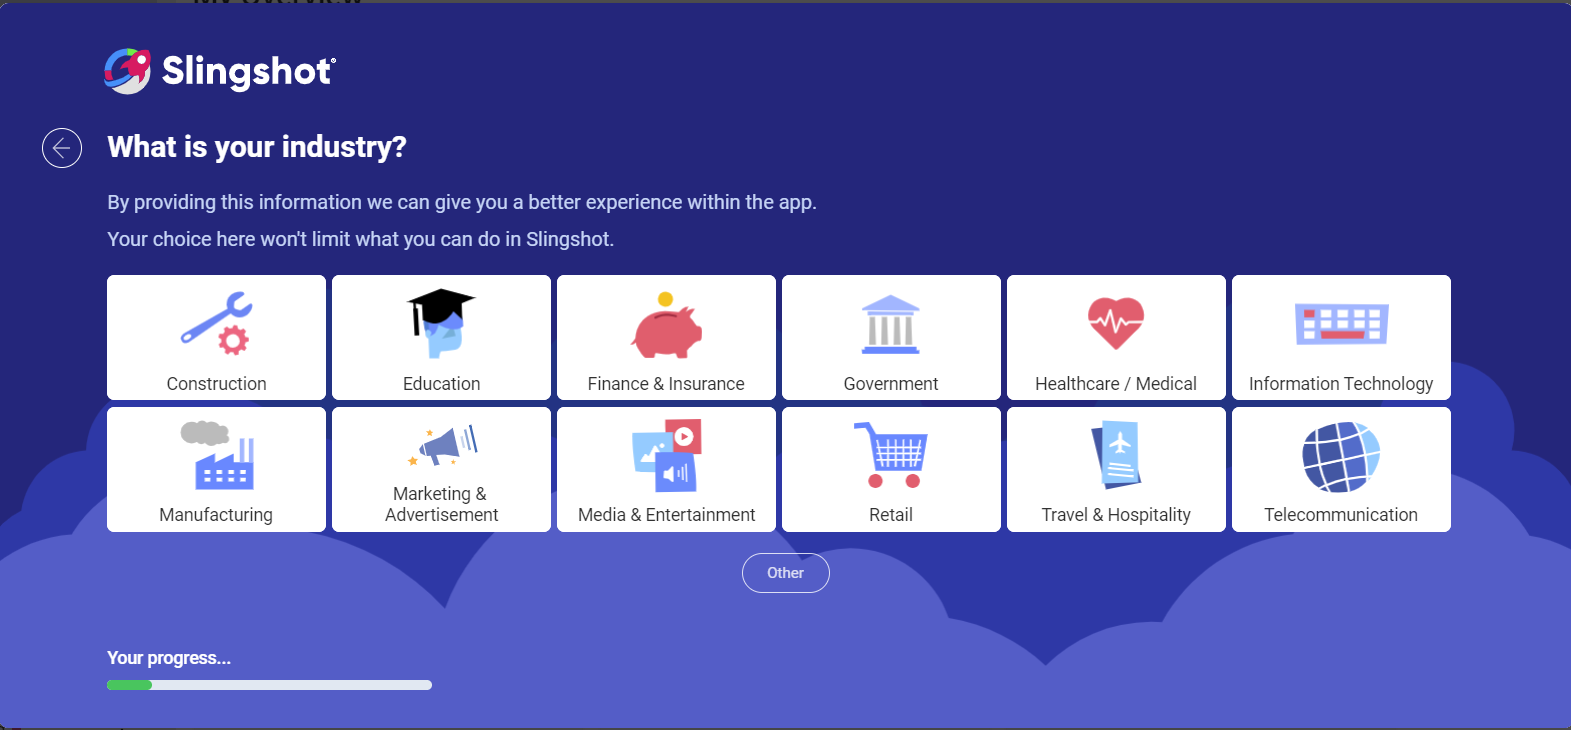
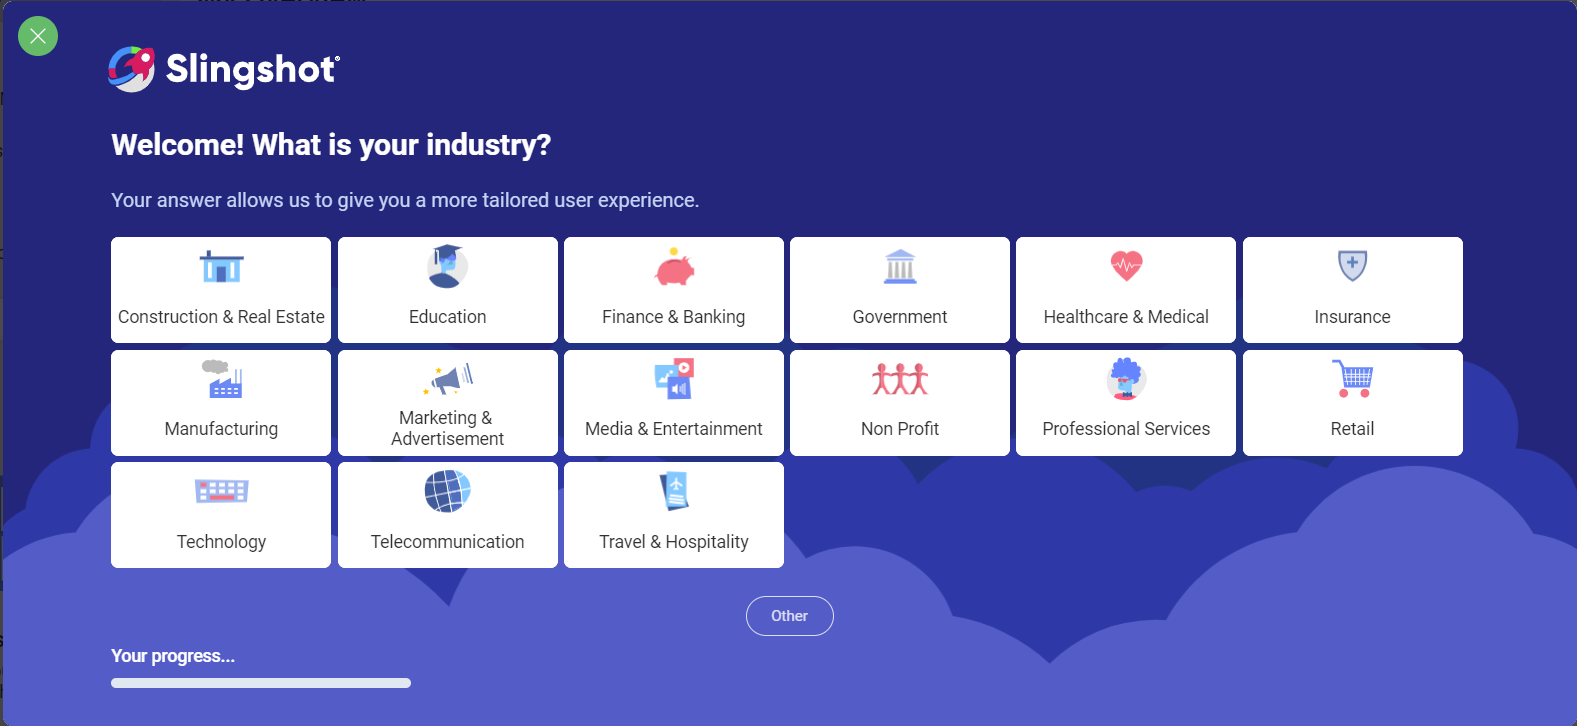
latest features

diff --git a/docfx/en/docs/tasks.md b/docfx/en/docs/tasks.md
@@ -9,10 +9,7 @@ When it comes to running a successful project – task management is at the hear
 
 There is a task tab available within your workspaces and projects, listing all the tasks assigned to everyone in those workspaces and projects. You can view your own tasks assigned to you within the **My Tasks** section.
 
-Learn more about all Slingshots project management features in our short tutorial video:  
-
-> [!Video https://www.youtube.com/embed/D1yqDISM5PM]
-
+<img src="../images/my-tasks.png" alt="My tasks assigned tasks" width="90%" class="responsive-img"/>
 
 ## What are Tasks?  
 
@@ -36,25 +33,33 @@ Subtasks can be created from inside the task card or from the parent task's over
 
 Tasks are very important for driving the productivity of your teams and projects. Your task card has the following fields:  
 
-<img src="../images/task-card-example.png" alt="Task card with all fields highlighted within Slingshot" width="80%" class="responsive-img"/>
+<img src="../images/task-fields.png" alt="Task card with all fields highlighted within Slingshot" width="80%" class="responsive-img"/>
 
-1.	**Task Title**: Set a clear title for your tasks.  
-2.	**Assignee(s)**: Assign either one person, multiple, group or workspace to a task.  
-3.	**Start Date & Due Date**: Set clear expectations on deadlines with start and due dates.  
-4.	**Status**: Set the status of the task such as In Review, In Progress or Completed.
-5.	**Attachments**: Add documents and files directly from your cloud providers or using drag and drop.  
-6.	**URLs**: Attach URLs to your tasks for reference.  
-7.	**Priority**: Set priorities for your teams so they can better manage their workloads effectively.
-8.	**Subtasks**: Create subtasks to slice your work better.
-9.	**Description**: Add further details around your tasks so the assignee(s) can understand what needs to get done.
-10.	**Activity**: Have threaded conversations around your tasks in context. 
-11.	**Task Dependencies**: Set clear paths to success for your projects with accountability to user's tasks. 
+1.	**Task Title**: Set a clear title for your tasks. 
+
+2.  **Description**: Add further details around your tasks so the assignee(s) can understand what needs to get done.
+
+3.	**Status**: Set the status of the task such as In Review, In Progress or Completed.
+
+4.	**Priority**: Set priorities for your teams so they can better manage their workloads effectively.
+
+5.	**Assignee(s)**: Assign either one person, multiple, group or workspace to a task. 
+
+6.	**Start Date & Due Date**: Set clear expectations on deadlines with start and due dates.  
+
+7.	**Attachments**: Add documents and files (for example, URLs, dashboards or data sources) to the task. 
+
+8.	**Activity**: Have threaded conversations around your tasks in context.
+
+If you want to add subtasks or dependencies to the task, you can scroll down in the task card.
+
+<img src="../images/task-fields-subtasks-dependencies.png" alt="Subtasks and dependencies in a task card" width="80%" class="responsive-img"/>
 
 ### Task Description
 
- In the task description section you can not only add additional details around your tasks, but you can also add images or create numbered and bulleted lists. For emphasis, you can also use the bold or italic font.
+ In the task description section, you can add additional details around your tasks with the help of different text formatting tools. You can also add URLs, as well as emojis.
 
-  <img src="../images/task-description-new-features.png" alt="using an image and numbered list in the task description" width="80%" class="responsive-img"/>
+  <img src="../images/task-description.png" alt="using an image and numbered list in the task description" width="65%" class="responsive-img"/>
 
 Note that currently these options are available only for macOS Monterey.
 
@@ -86,9 +91,23 @@ You can organize your tasks into lists to further group them together. Within li
 
 ## Task Views
 
-You can choose between three views (List, Kanban, Timeline) to take advantage of a different layout to maximize utility. Use the **View Settings** drop down menu (top right of the task list) to switch between views.  
+You can choose between four views (Calendar, List, Kanban, Timeline) to take advantage of a different layout to maximize utility. Use the **View Settings** drop-down menu (top right of the task list) to switch between views.  
 
-Within each of the task views you can filter, choose which task fields you want to show and group by status, priority, assignee, or sections.  
+Within each of the task views you can filter the tasks in a way that best suits your teams' goals.
+
+### Calendar  
+
+View your tasks on the calendar in order to have a better overview of your teams' schedules and their progress on tasks.
+
+<img src="../images/tasks-calendar-view.png" alt="Calendar view within Slingshot" width="75%" class="responsive-img"/>
+
+Use Calendar view if you want to: 
+
+- Change the *Start Date* and the *Due Date* with a simple drag and drop.
+
+- Pick a single date for a task with just one click.
+
+- Have a quick glimpse of unscheduled tasks. (To view your unscheduled tasks, click/tap on the three dot menu next to the View Type and choose **Show Unscheduled Items**.)
 
 ### List
 

diff --git a/docfx/en/docs/onboarding.md b/docfx/en/docs/onboarding.md
@@ -4,38 +4,26 @@ When you start using a new app for the very first time, the process of getting u
 
 ## What does The Onboarding Process consist of? 
 
-During the onboarding process, you will be able to set up things, such as your first workspace, project, tasks and even invite your team members to Slingshot.
+During the onboarding process, you will be able to choose an industry, department and template in order to set up things in Slingshot.
 
 When you log into your account for the first time, you will see the following:
 
-1. A dialog where you can choose your main objectives. You can select as many as you want.
-
- <img src="../images/main-objectives-onboarding.png" alt="Dialog with  a list of objectives" width="85%" class="responsive-img"/>
-
-2. Once you have done that, you can select your industry. In case you don't see it in the options, you can click on **Other** and add it manually.
+1. A dialog where you can select your industry. In case you don't see it in the options, you can click on **Other** and add it manually.
 
  <img src="../images/industry-onboarding.png" alt="Dialog with list of industries" width="85%" class="responsive-img"/>
 
-3. In the next dialog you can choose the department you are working in. If you don’t see it in the list, you can add it manually when you click on **Other**.
+2. In the next dialog you can choose the department you are working in. If you don’t see it in the list, you can add it manually when you click on **Other**.
 
- <img src="../images/onboarding-departments-options.png" alt="Dialog with a list of departments" width="85%" class="responsive-img"/>
+ <img src="../images/onboarding-departments.png" alt="Dialog with a list of departments" width="85%" class="responsive-img"/>
 
-4. After choosing your department, you can create your first project.
+3. After specifying your department, you will be presented with a list of out-of-the-box templates. You can choose a template to help you set your working space. 
 
- <img src="../images/project-onboarding.png" alt="Dialog where you can write your project" width="85%" class="responsive-img"/>
+ <img src="../images/onboarding-templates.png" alt="Dialog with a list of templates" width="85%" class="responsive-img"/>
 
-5.	Depending on your previous selections, you might see a dialog, where you can add tasks to the project. You can always change them later.  
+ >[!NOTE] If you're invited to Slingshot, for example, via chat, you will be able to choose only your industry and department.
 
- <img src="../images/tasks-onboarding.png" alt="Dialog where you can create tasks" width="80%" class="responsive-img"/>
+4. When you are done with the onboarding process, you will land on a project in your workspace to get you started faster.
 
- >[!NOTE] In case you have selected **Analyze data**, **build visualizations**, and **gain insights** as objectives, you won’t see this dialog.
-
-6.	As a workplace is not really a workplace without your team, you can invite your team members to Slingshot. In case you want to do this at a later stage, you can click on **Next**.
-
- <img src="../images/invite-co-workers-onboarding.png" alt="Dialog where you can type in the email addresses of your co-workers" width="85%" class="responsive-img"/>
-
-7. When you are done with the onboarding process, you will land on the [tasks](https://www.slingshotapp.io/en/help/docs/tasks) in the project that you’ve created or in the [dashboards](https://www.slingshotapp.io/en/help/docs/analytics/dashboards/overview) section.
-
- <img src="../images/completed-onboarding.png" alt="tasks section after the onboarding is completed" width="85%" class="responsive-img"/> 
+ <img src="../images/completed-onboarding-example.png" alt="Result of a completed onboarding " width="85%" class="responsive-img"/> 
 
 If you want to find more information about Slingshot and all the features that it offers, head [here](https://www.slingshotapp.io/learning-center).

diff --git a/docfx/en/docs/workspace-templates.md b/docfx/en/docs/workspace-templates.md
@@ -4,7 +4,7 @@ With Workspace Templates, you can quickly create workspaces for your teams - wit
 
 ## How can I access different Workspace Templates lists?
 
-To access the predefined Slingshots templates, you can: 
+To access the out-of-the-box Slingshots templates, you can: 
 
 1.	Click/tap on the **+Add** button next to **Workspaces** in the left panel.
 
@@ -12,15 +12,23 @@ To access the predefined Slingshots templates, you can:
 
 3.	The following dialog will pop up:
 
-<img src="../images/workspace-templates.png" alt="workspace templates" class="responsive-img" width="90%" />
+<img src="../images/workspace-templates-dialog.png" alt="workspace templates" class="responsive-img" width="90%" />
 
-In the left panel you can:
+In the left panel, you can do the following:
 
-- Check/use the templates that you have recently used.
+- Check all of your templates.
 
-- Check/use a template from the *Slingshot Templates*.
+- Check the templates that you have recently used.
 
-## How can I use a Workspace Template?
+- View all the featured templates.
+
+- Use a template from the *Slingshot Templates*.
+
+- Locate where you have stored your templates.
+
+- Filter the templates by *Created by Me* or *Shared with Me*.
+
+## How can I use an out-of-the-box Workspace Template?
 
 The Slingshot templates are organized based on different industries/departments. To use a template, you need to: 
 
@@ -39,6 +47,36 @@ The Slingshot templates are organized based on different industries/departments.
 <img src="../images/new-workspace-dialog.png" alt="Creating a new workspace from a template" class="responsive-img" width="90%" />
 
 6.	When you are ready, click/tap on **Create**.
+
+## How can I create a custom Workspace Template? 
+
+In order to create a custom workspace template, you need to:
+
+1.	Open the overflow menu next to the workspace you want to use as a template.
+
+2.	Click/tap on **Save as Template**.
+
+<img src="../images/workspace-save-as-template-option.png" alt="Save as template option for workspaces" class="responsive-img" width="90%" />
+
+3.	The following dialog will open up. Here you can choose what to keep from the workspace in order to use it for the template. When you are ready, click/tap on **Save**.
+
+<img src="../images/workspace-save-as-template-dialog.png" alt="Save as template dialog for workspaces" class="responsive-img" width="90%" />
+
+4.	Once you have created the template, you can find it in the *Workspace Templates lists* when you click/tap on **See all Templates** (next to *Workspaces* in the left panel). The custom template will show up under **Personal Templates**. 
+
+<img src="../images/workspace-templates-personal-templates.png" alt="Personal workspace templates under Location" class="responsive-img" width="90%" />
+
+Besides this, you can also open the overflow menu on the right side of the workspace template, that you have created, and take the following actions:
+
+-	Open the template.
+
+-	Copy the link to the template.
+
+-	Add the template to *Bookmarks* or remove it from there.
+
+-	Share the template.
+
+-   Delete the template.
 
 If you want to find more information about how you can create and use workspaces, head [here](./workspaces.md).
 

diff --git a/docfx/en/docs/project-templates.md b/docfx/en/docs/project-templates.md
@@ -16,15 +16,23 @@ In order to access the templates, you need to:
 
 4.	The following dialog will pop up:
 
-<img src="../images/project-templates.png" alt="project templates" class="responsive-img" width="90%" />
+<img src="../images/project-templates-dialog.png" alt="project templates" class="responsive-img" width="90%" />
 
-In the left panel you can:
+In the left panel, you can do the following:
 
-- Check/use the templates that you have recently used.
+- Check all of your templates.
 
-- Check/use a template from the *Slingshot Templates*.
+- Check the templates that you have recently used.
 
-## How can I use a Project Template?
+- View all the featured templates.
+
+- Use a template from the *Slingshot Templates*.
+
+- Locate where you have stored your templates.
+
+- Filter the templates by *Created by Me* or *Shared with Me*.
+
+## How can I use an out-of-the-box Project Template?
 
 The *Slingshot templates* are organized based on different industries/departments. To use a template, you need to:
 
@@ -43,5 +51,39 @@ The *Slingshot templates* are organized based on different industries/department
 <img src="../images/new-project-project-templates.png" alt="creating a new project from a template" class="responsive-img" width="90%" />
 
 6.	When you are ready, click/tap on **Create**.
+
+## How can I create a custom Project Template? 
+
+To create a custom project template, you need to:
+
+1.	Open the overflow menu of the project you want to use for the template.
+
+2.	Click/tap on **Save as Template**. 
+
+<img src="../images/save-as-template-option-project.png" alt="save as template option for a project" class="responsive-img" width="90%" />
+
+3. The following dialog will open up. Here you can choose what to keep from the project in order to use it for the template. You can also choose where to store the template from the drop-down menu in the left panel of the dialog. When you are ready, click /tap on **Save**.
+
+<img src="../images/project-save-as-template-dialog.png" alt="Save as template dialog for a project" class="responsive-img" width="90%" />
+
+4.	Once you have created the template, you can open your list of projects in a workspace and click/tap on **See all Templates**. 
+
+<img src="../images/project-see-all-templates.png" alt="See all project templates option" class="responsive-img" width="90%" />
+
+You can find the template under **Locations** in one of the sections. In the example below, we saved the template with the title *Email Marketing* in the **Marketing** workspace.
+
+<img src="../images/project-template-location-example.png" alt="Example of a stored template in a location" class="responsive-img" width="90%" />
+
+Besides this, you can also open the overflow menu on the right side of the project template, that you have created, and take the following actions:
+
+-	Open the template.
+
+-	Copy the link to the template.
+
+-	Add the template to *Bookmarks* or remove it from there.
+
+-	Share the template.
+
+-	Delete the template.
 
 If you want to find more information about how you can create and use projects, head [here](./workspaces.md#workspace-hierarchy).
